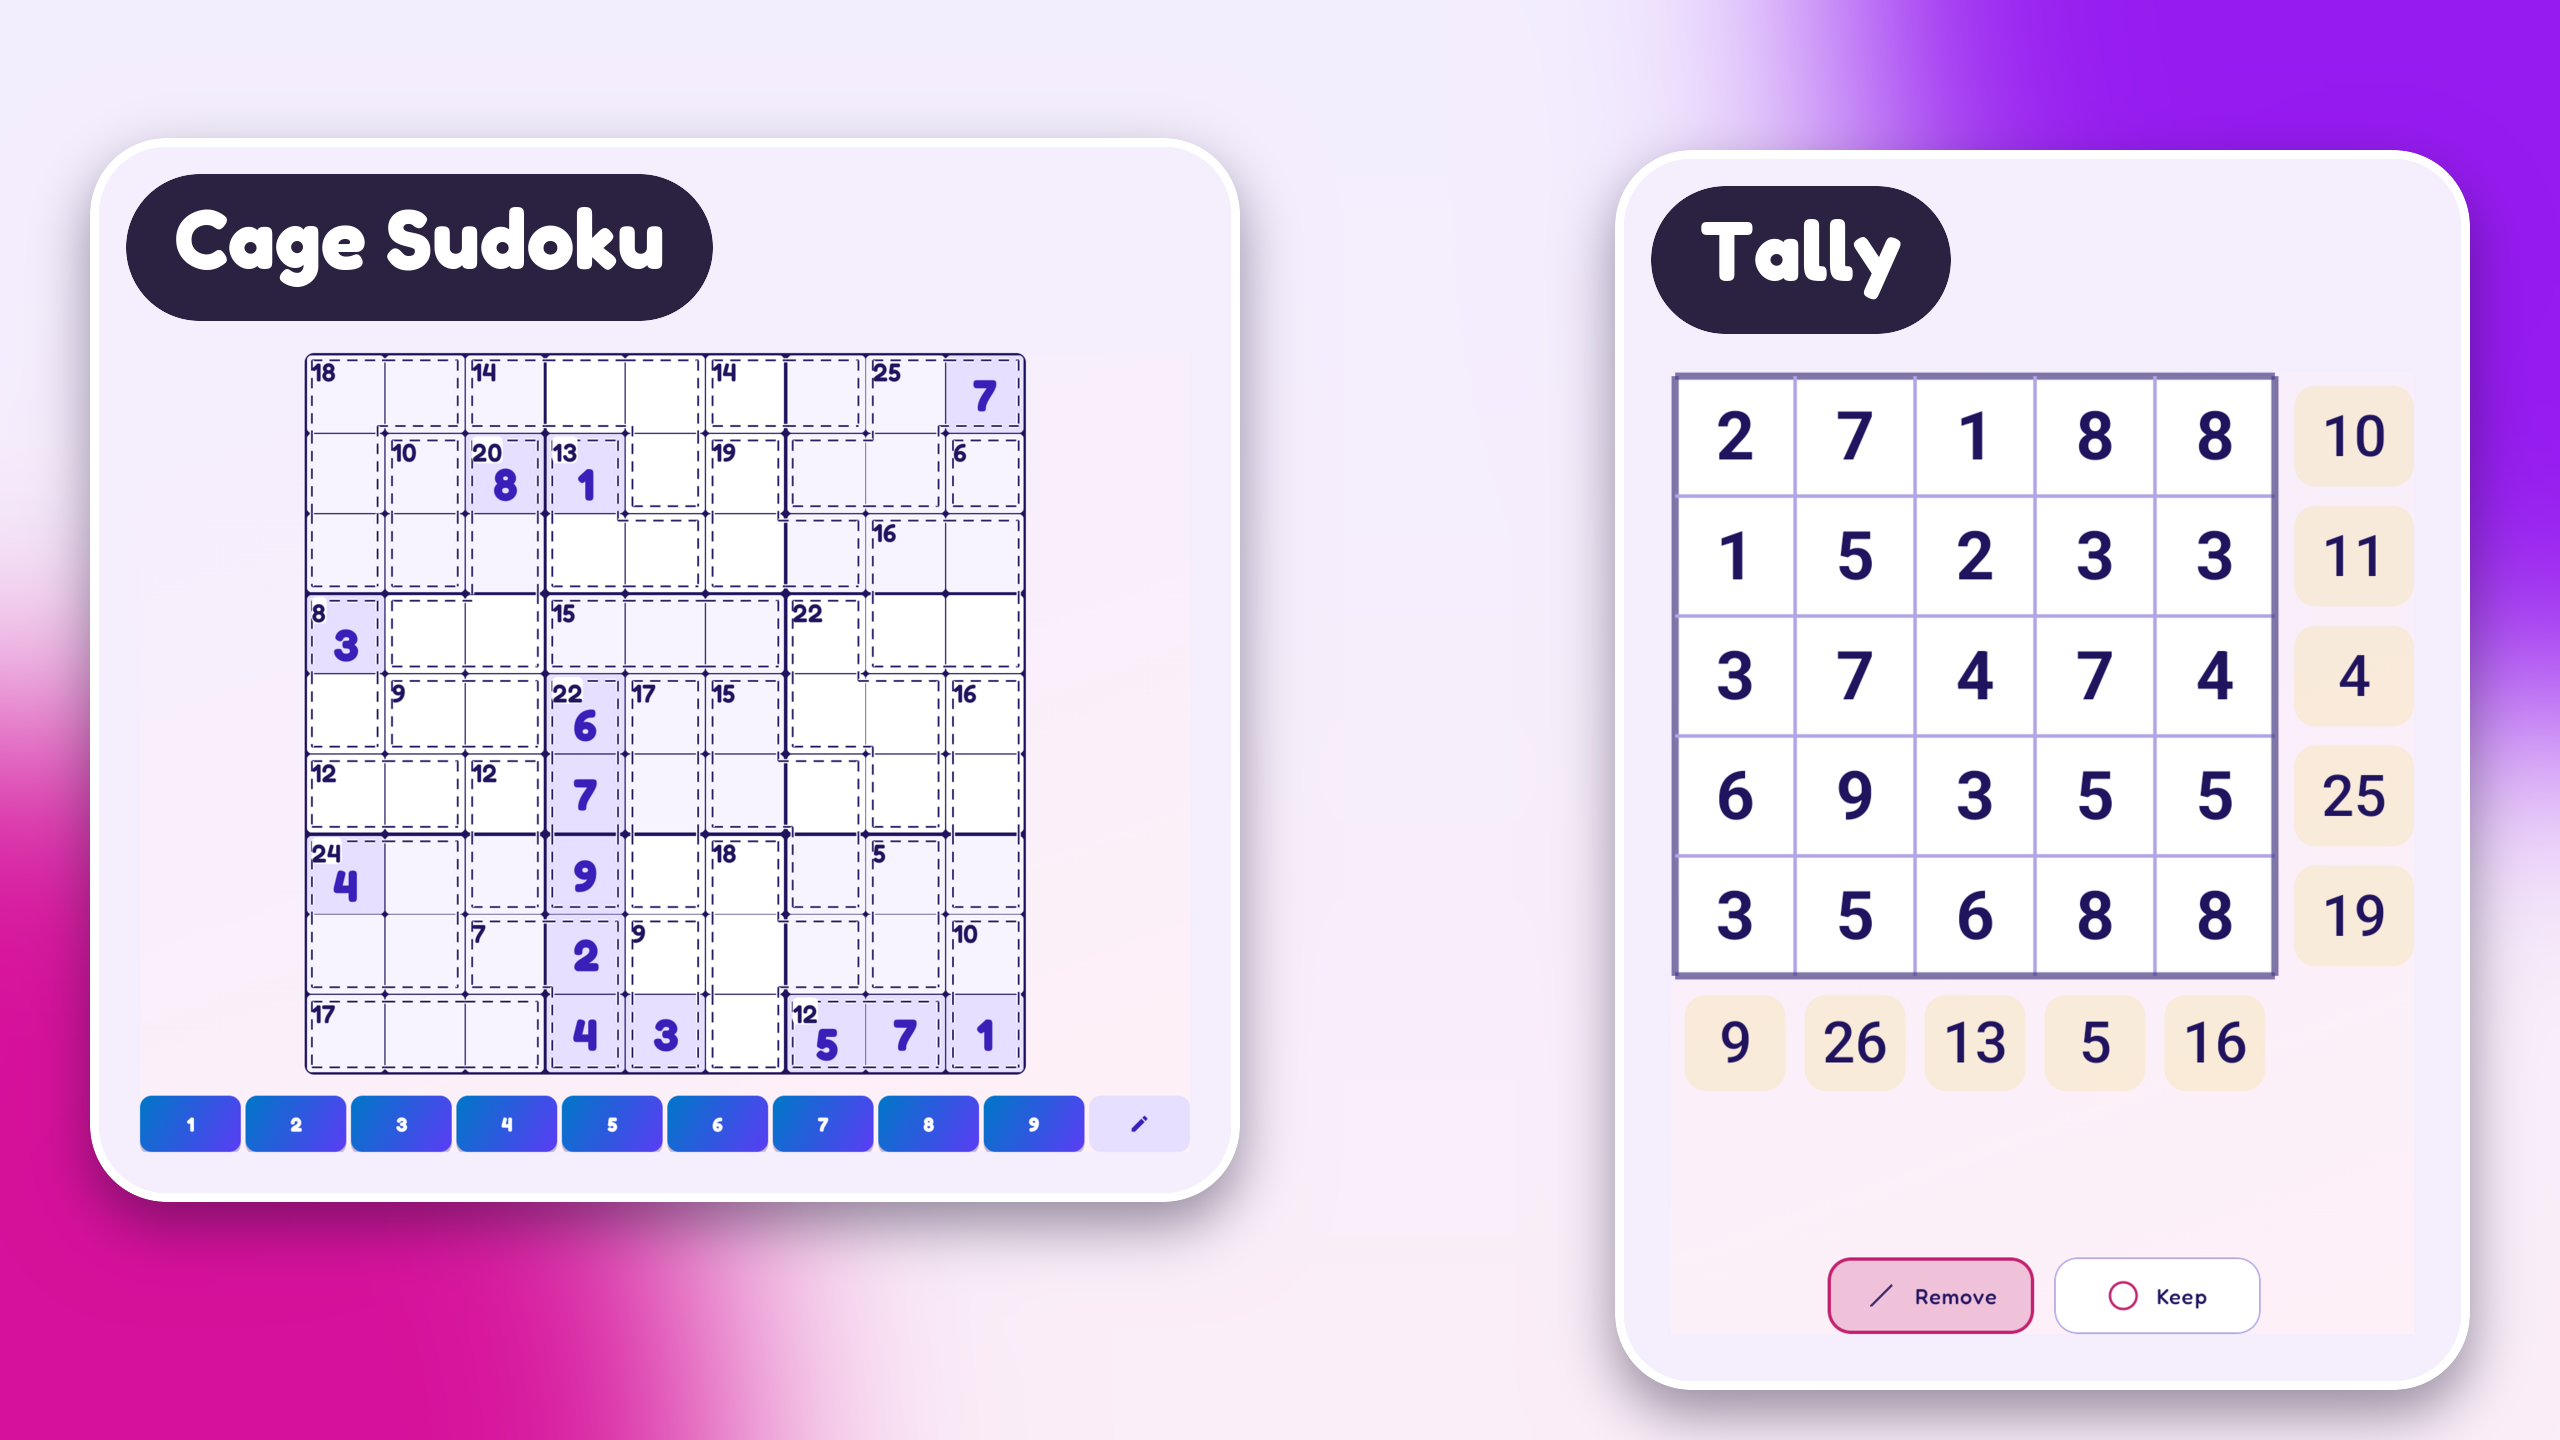
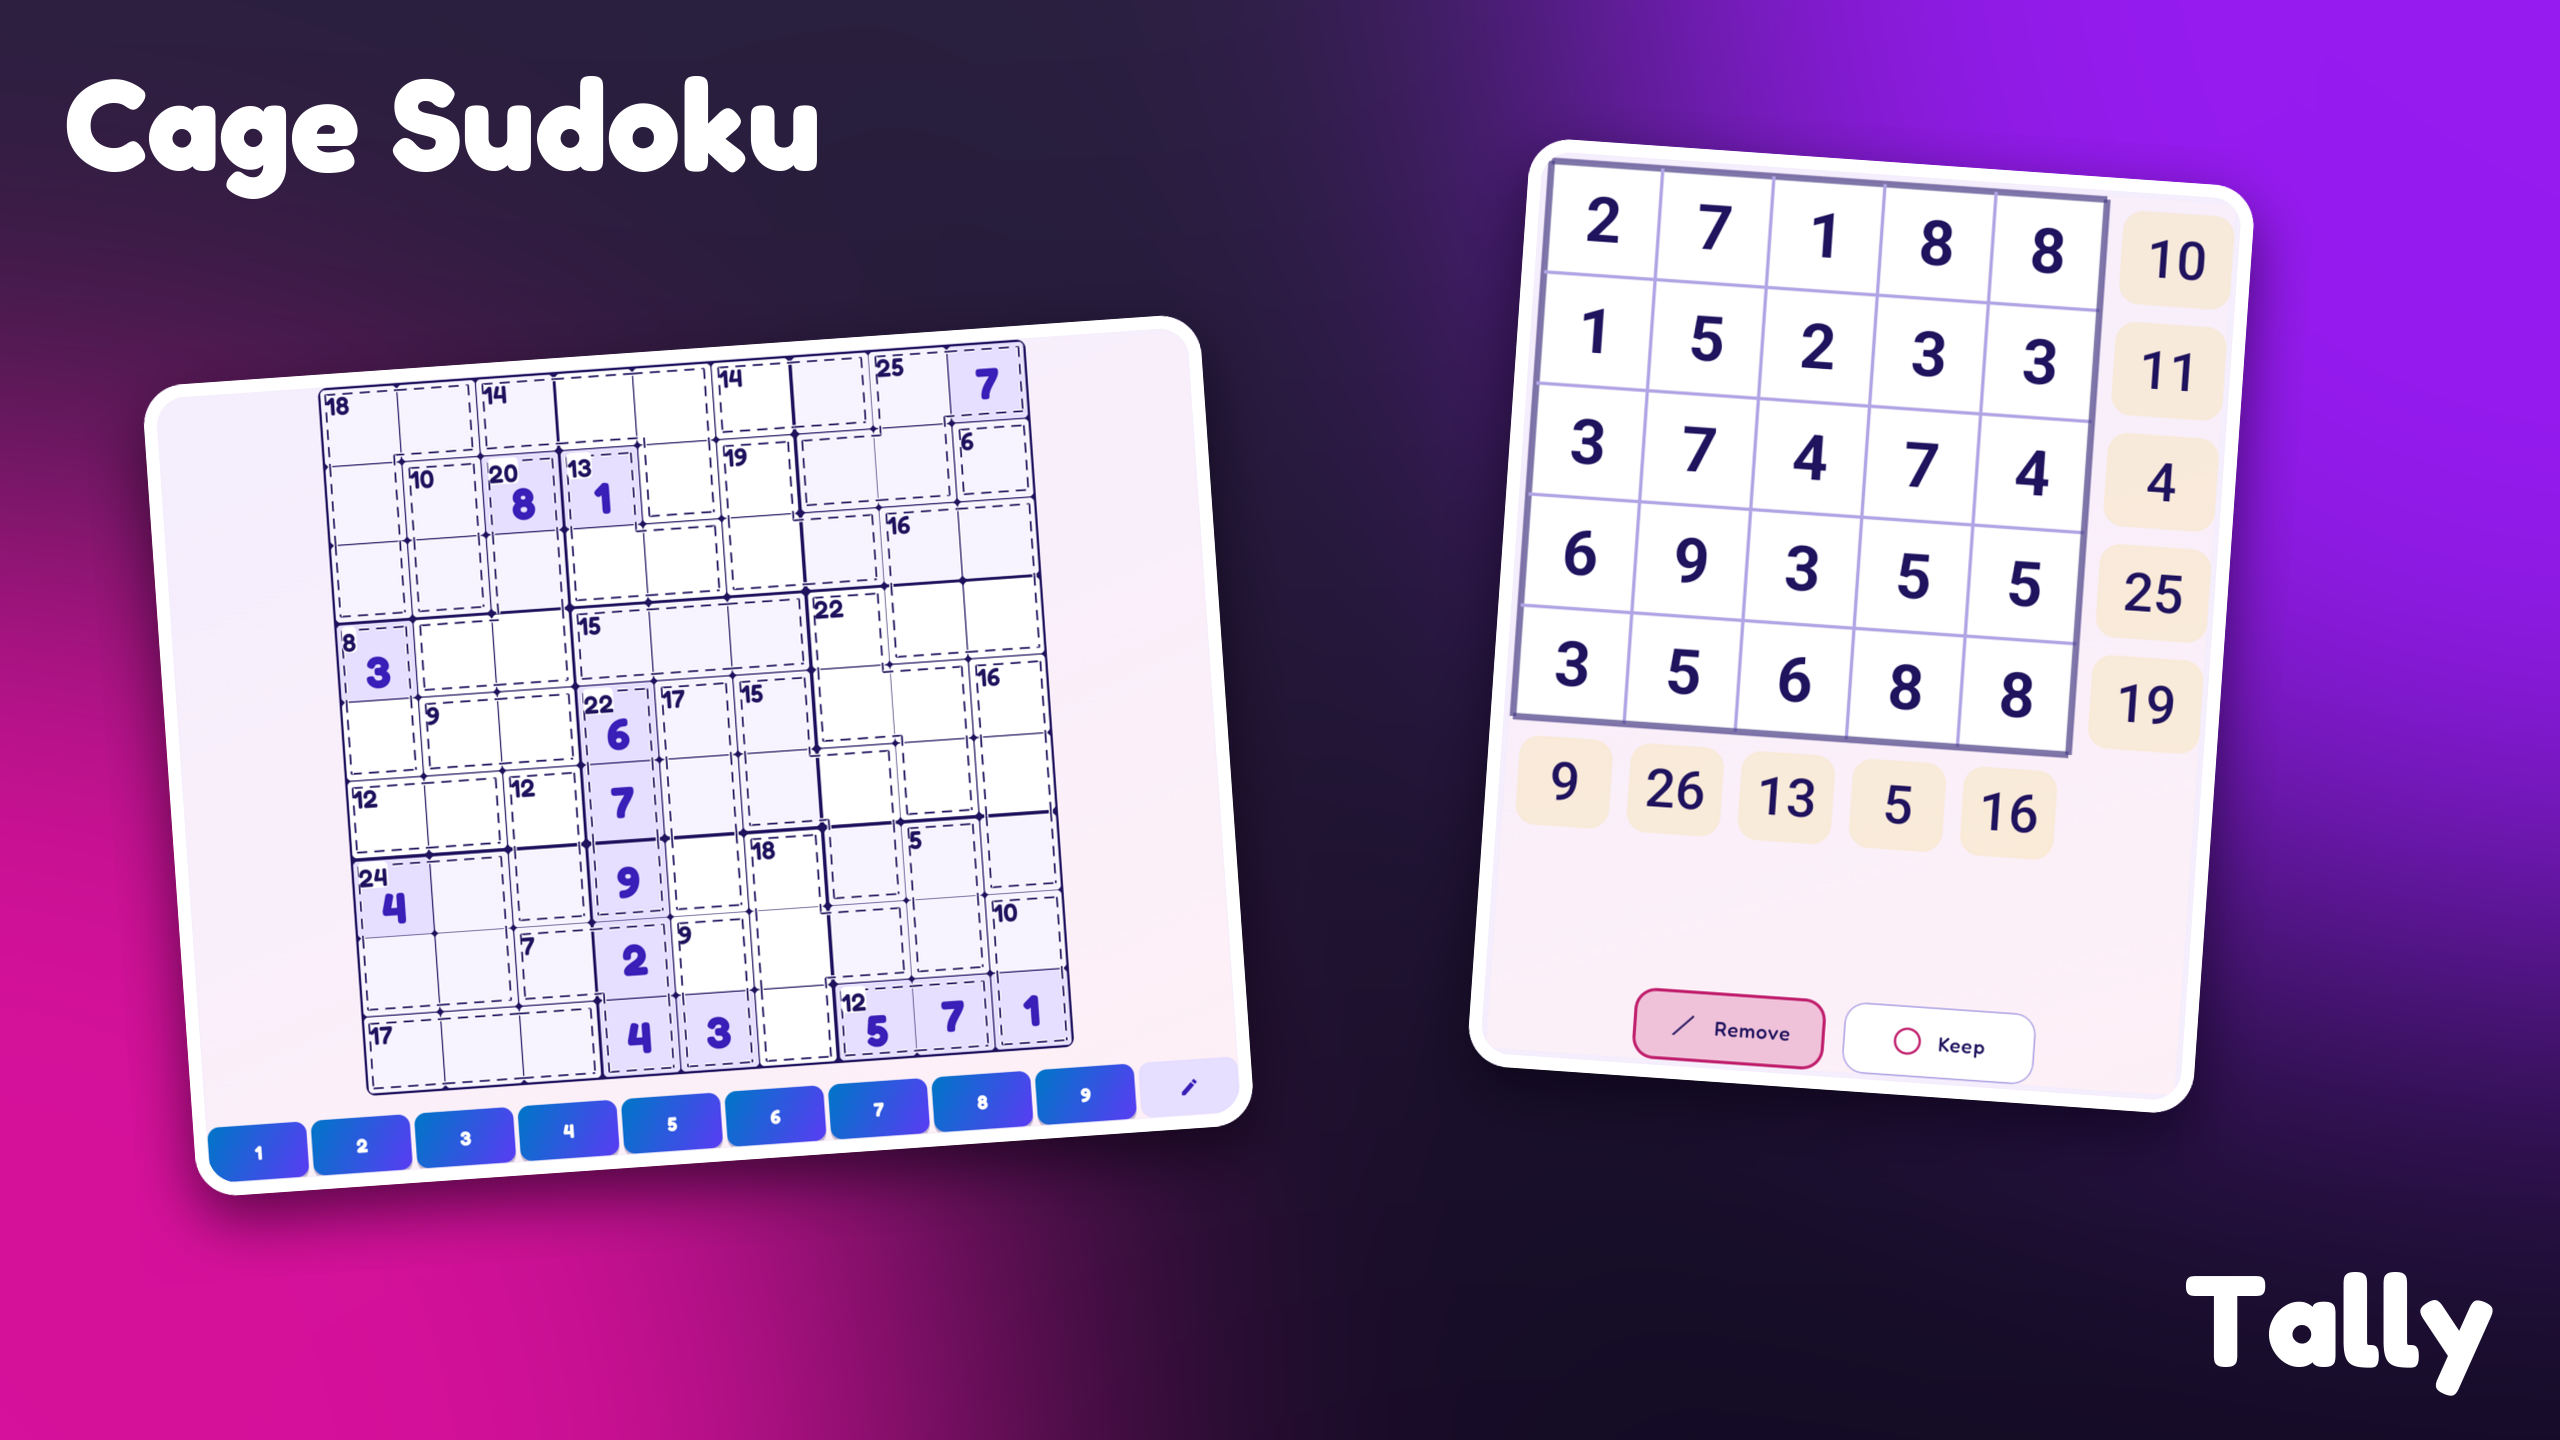
Store screenshots: tilted cards, no plain Home shot, Pipes and Kings added
The two-game shots fan the boards a few degrees apart on the dark page with each name large in its
corner. The plain Home shot repeated the New Look! one, so its slot now holds Pipes and Kings: fourteen
games over seven shots. The README keeps a plain home capture.

diff --git a/docs/play/LISTING.md b/docs/play/LISTING.md
@@ -34,18 +34,20 @@ a newspaper's or app's puzzle) may not. Play's policy keeps "free" and "no ads" 
 |---|---|---|
 | App icon | `../../android/play-icon-512.png` | 512x512 |
 | Feature graphic | `feature-graphic.png` | 1024x500, no alpha (`python3 docs/social-preview/make.py`) |
-| Phone screenshots | `screenshots/1-home.png` ... `8-cages-tally.png` | 1080x1920, 9:16 (the first set was 2:1, which Play also accepted). The emulator's own 1080x2400 is over 2:1 |
-| Tablet screenshots (7-inch and 10-inch) | `tablet-screenshots/1-home.png` ... `8-cages-tally.png` | 2560x1440 landscape at 320 dpi (a 1280x720 dp window, so the board sits beside the controls). One set fills both slots |
+| Phone screenshots | `screenshots/1-new-look.png` ... `8-cages-tally.png` | 1080x1920, 9:16 (the first set was 2:1, which Play also accepted). The emulator's own 1080x2400 is over 2:1 |
+| Tablet screenshots (7-inch and 10-inch) | `tablet-screenshots/1-new-look.png` ... `8-cages-tally.png` | 2560x1440 landscape at 320 dpi (a 1280x720 dp window, so the board sits beside the controls). One set fills both slots |
 
 The screenshots are emulator captures made by `tools/screenshots/capture.sh` (`wm size 1080x1920`, then 2560x1440 for the tablet set, a clean install, the date pinned to 7 Oct 2026, demo-mode
-status bar: 9:00, no notifications). The set: the home screen; the home screen in
-Classic over Arcade with "New Look!" across the seam; then twelve games in Arcade, two to a shot, each board on a card
-with its name, the two cards stepped apart on the app's lavender page (`pair` in the script). No hint is left open.
+status bar: 9:00, no notifications). The set: the home screen in
+Classic over Arcade with "New Look!" across the seam (the one shot of Home: a plain one would repeat it); then fourteen
+games in Arcade, two to a shot, each board on a card fanned a few degrees from the other on the dark page, its name large
+in its own corner (`pair` in the script). No hint is left open. The README's home image is still a plain capture.
 The games are the genres with the biggest apps on Play, since the app collects no play counts of its own.
 Play's install brackets, read 2026-11-12: 100M+ for Sudoku (Sudoku.com), Word Wheel (Wordscapes), Arrows (Easybrain's Arrow
 Puzzle), Links (Flow Free) and Sand (SortPuz Water Sort); 50M+ for Nonogram (Easybrain) and Unblock (Unblock Me); 10M+ for
 Lexicon's genre on Play, but Wordle had 4.2 billion web solves in 2025 (NYT), so Lexicon is in; 10M+ for Crossword and Cage
-Sudoku, 5M+ for Tally, 1M+ for Tents. Mines' genre could not be confirmed past 100K+.
+Sudoku, 5M+ for Tally, 1M+ for Tents. Pipes joined on 2026-11-13 (Flow Legends: Pipe Games, 100M+), and Kings for
+LinkedIn's daily Queens, though no Queens app on Play passes 1M+. Mines' genre could not be confirmed past 100K+.
 A merge to `main` that changes `docs/play/screenshots/` or `docs/play/tablet-screenshots/` sends them to the listing
 (`.github/workflows/play-screenshots.yml`, running `tools/screenshots/upload-play.py`; the service account needs "Manage store
 presence"; Google reviews the change and the live listing keeps the old images meanwhile). A slot Play already holds the same
